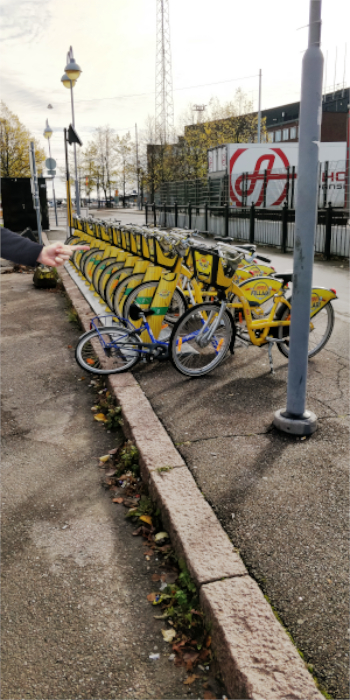
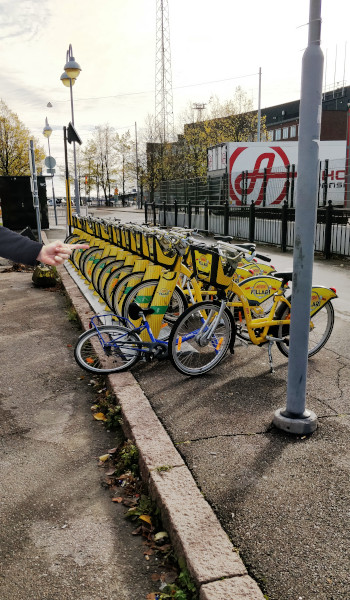
kuva

diff --git a/index/esittely.html b/index/esittely.html
@@ -1,7 +1,7 @@
 <!DOCTYPE html>
 <html lang="en">
 <head>
-    <meta charset="UTF-8">
+    <meta charset="UTF-8" name="viewport" content="width=device-width, initial-scale=1">
     <title>esittely</title>
     <link href="../css/esittely.css" rel="stylesheet">
     <link href="../css/kapea.css" rel="stylesheet">
@@ -30,7 +30,7 @@
         <a id="index.html" href="index.html"><b>Karttasovellus</b></a>
     </div>
 </div>
-    <img id="omakuva" src="../kuvat/pyörä2.jpg" width="350px" height="600px">
+    <a href="../kuvat/pyörä2.jpg"><img id="omakuva" src="../kuvat/pyörä.jpg"  style="width: 350px; height: 600px;"></a>
     <video id="video" width="350" height="197" controls>
         <source src="../Esittelyvideo.mp4" type="video/mp4">
         <source src="../Esittelyvideo.ogv" type="video/ogv">
